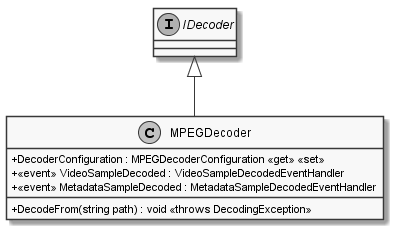
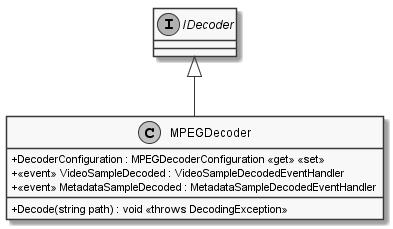
Add MetadataCapture, MetadataSerializer, fix some declarations

Changed region(s): [[0.1221, 0.8865, 0.7939, 0.9476]]

diff --git a/documents/sd/chapter/Classes/Core/MORR/Data/Capture/Capture.tex b/documents/sd/chapter/Classes/Core/MORR/Data/Capture/Capture.tex
@@ -48,7 +48,7 @@
     \end{attributes}
 
     \begin{methods}
-        \begin{method}{VideoSample NextSample()}{Gets the next VideoSample from the capture.}
+        \begin{method}{public VideoSample NextSample()}{Gets the next VideoSample from the capture.}
             \return{VideoSample}{The next VideoSample from the capture.}
         \end{method}
     \end{methods}   
@@ -84,7 +84,7 @@
     \clsdsp{Provides utility methods for working with Windows' GraphicsCaptureItems.}
 
     \begin{attributes}
-        \attribute{static bool CanCreateItemWithoutPicker \{ get; \}}{Indicates whether the creation of a GraphicsCaptureItem instance requires user interaction. True if GraphicsCaptureItems can be created without user interaction, false otherwise.}
+        \attribute{public static bool CanCreateItemWithoutPicker \{ get; \}}{Indicates whether the creation of a GraphicsCaptureItem instance requires user interaction. True if GraphicsCaptureItems can be created without user interaction, false otherwise.}
     \end{attributes}
     \begin{methods}
         \begin{method}{public static GraphicsCaptureItem CreateItemForMonitor(IntPtr hMon)}{Creates a GraphicsCaptureItem for the specified monitor.}
@@ -176,3 +176,21 @@
         \end{method}
     \end{methods}
 \end{interface}
+
+\begin{class}{MetadataCapture}
+    \clsdiagram[width=0.5\textwidth]{resources/Classes/Core/MORR/Capture/MetadataCapture.png}
+
+    \clsdcl{public class MetadataCapture : IMetadataCapture}
+
+    \clsdsp{Captures all events from all event queues and provides them on a per-sample basis.}
+
+    \begin{attributes}
+        \attribute{[ImportMany] IEnumerable<EventQueue<Event>> \{ get; private set; \}}{All available event queues.}
+    \end{attributes}
+
+    \begin{methods}
+        \begin{method}{public MetadataSample NextSample()}{Gets the next MetadataSample from the capture.}
+            \return{MetadataSample}{The next MetadataSample from the capture.}
+        \end{method}
+    \end{methods}
+\end{class}

diff --git a/documents/sd/chapter/Classes/Core/MORR/MORR.tex b/documents/sd/chapter/Classes/Core/MORR/MORR.tex
@@ -32,7 +32,7 @@
 \end{interface}
 
 \begin{class}{RecordingManager}
-    \clsdiagram[width=0.35\textwidth]{resources/Classes/Core/MORR/RecordingManager.png}
+    \clsdiagram[width=0.5\textwidth]{resources/Classes/Core/MORR/RecordingManager.png}
 
     \clsdcl{public class RecordingManager : IRecordingManager}
 
@@ -101,7 +101,7 @@
     \clsdsp{Responsible for bootstrapping the application and providing compositional facilities using MEF.}
 
     \begin{methods}
-        \begin{method}{public void ComposeImports(object @object)}{Satisifies the imports on the specified object using MEF.}
+        \begin{method}{void ComposeImports(object @object)}{Satisifies the imports on the specified object using MEF.}
         \begin{parameters}
             \para{object @object}{The object to satisfy the imports on.}
         \end{parameters}
@@ -139,7 +139,7 @@
     \end{attributes}
 
     \begin{methods}
-        \begin{method}{public void LoadConfiguration(string path)}{Loads the configuration in .json format from the specified part and initializes all IConfiguration instances.}
+        \begin{method}{void LoadConfiguration(string path)}{Loads the configuration in .json format from the specified part and initializes all IConfiguration instances.}
             \begin{parameters}
                 \para{string path}{The path to load the configuration from.}
             \end{parameters}
@@ -199,7 +199,7 @@
     \end{attributes}
 
     \begin{methods}
-        \begin{method}{public void InitializeModules()}{Initializes all modules according to the configuration}      
+        \begin{method}{void InitializeModules()}{Initializes all modules according to the configuration}      
         \end{method}
     \end{methods}
 \end{interface}

diff --git a/documents/sd/chapter/Classes/Core/UI/UI.tex b/documents/sd/chapter/Classes/Core/UI/UI.tex
@@ -31,7 +31,7 @@
     \end{constructors}
     
     \begin{methods}
-    	\begin{method}{public void dispose()}{Frees all unmanaged resources}
+    	\begin{method}{public void Dispose()}{Frees all unmanaged resources}
         \end{method}
      \end{methods}
 
@@ -132,12 +132,12 @@
     	\begin{method}{public bool CanExecute(object parameter)}{Determines whether the RelayCommand can be executed in current state}
             \return{bool}{True if this RelayCommand can be executed; otherwise, false.}
             \begin{parameters}
-                \para{Object parameter}{Data used by the RelayCommand}
+                \para{object parameter}{Data used by the RelayCommand}
             \end{parameters}
         \end{method}
         \begin{method}{public void Execute(object parameter)}{Executes the RelayCommand}
             \begin{parameters}
-               \para{Object parameter}{Data used by the RelayCommand}
+               \para{object parameter}{Data used by the RelayCommand}
             \end{parameters}
         \end{method}
         

diff --git a/documents/sd/chapter/Classes/Core/MORR/Data/Transcoding/WinAPI/WinAPI_Transcoding.tex b/documents/sd/chapter/Classes/Core/MORR/Data/Transcoding/WinAPI/WinAPI_Transcoding.tex
@@ -59,7 +59,7 @@
     \end{attributes}
 
     \begin{methods}
-        \begin{method}{public void DecodeFrom(string path)}{Decodes samples contained in a file at a specified location.}
+        \begin{method}{public void Decode(string path)}{Decodes samples contained in a file at a specified location.}
             \begin{parameters}
                 \para{string path}{The path to decode from.}
             \end{parameters}
@@ -78,7 +78,7 @@
     \clsdsp{Encapsulates all MPEGDecoder configuration options.}
 
     \begin{attributes}
-        \attribute{bool ShouldExtractVideo \{ get; set; \}}{Indicates whether the encoder should extract video in addition to metadata. True if the encoder should extract video, false otherwise.}
+        \attribute{public bool ShouldExtractVideo \{ get; set; \}}{Indicates whether the encoder should extract video in addition to metadata. True if the encoder should extract video, false otherwise.}
     \end{attributes}
 
     \begin{methods}

diff --git a/documents/sd/chapter/Classes/Core/MORR/Data/Transcoding/Metadata/MetadataTranscoding.tex b/documents/sd/chapter/Classes/Core/MORR/Data/Transcoding/Metadata/MetadataTranscoding.tex
@@ -40,6 +40,8 @@
     \clsdsp{An exception thrown if metadata decoding fails.}
 \end{class}
 
+\subsection*{MORR.Core.Data.Transcoding.Metadata}
+
 \begin{interface}{IMetadataDeserializer}
     \clsdiagram[width=0.3\textwidth]{resources/Classes/Core/MORR/Transcoding/Metadata/IMetadataDeserializer.png}
 
@@ -47,3 +49,15 @@
 
     \clsdsp{Provides deserialization from generic events from a decoder to type-specific events.}
 \end{interface}
+
+\begin{class}{MetadataDeserializer}
+    \clsdiagram[width=0.5\textwidth]{resources/Classes/Core/MORR/Transcoding/Metadata/MetadataDeserializer.png}
+
+    \clsdcl{public class MetadataDeserializer : IMetadataDeserializer}
+
+    \clsdsp{Provides deserialization from generic events from a decoder to type-specific events.}
+
+    \begin{attributes}
+        \attribute{[ImportMany] public IEnumerable<EventQueue<Event>> EventQueues \{ get; private set\}}{All available event queues.}
+    \end{attributes}
+\end{class}

diff --git a/documents/sd/chapter/Classes/Common/Events/Events.tex b/documents/sd/chapter/Classes/Common/Events/Events.tex
@@ -71,10 +71,10 @@
     \clsdsp{Provides the backing store of an EventQueue with a specific storage strategy.}
 
     \begin{methods}
-        \begin{method}{public IAsyncEnumerable<T> GetEventsInternal()}{Asynchronously gets all events as concrete type T from this storage strategy.}
+        \begin{method}{IAsyncEnumerable<T> GetEventsInternal()}{Asynchronously gets all events as concrete type T from this storage strategy.}
             \return{IAsyncEnumerable<T>}{A stream of events of type T.}
         \end{method}
-        \begin{method}{public void Enqueue(T @event)}{Asynchronously enqueues a new event of type T with this storage strategy.}
+        \begin{method}{void Enqueue(T @event)}{Asynchronously enqueues a new event of type T with this storage strategy.}
             \begin{parameters}
                 \para{T @event}{The event to enqueue.}
             \end{parameters}

diff --git a/documents/sd/chapter/Classes/Core/MORR/Data/Transcoding/Transcoding.tex b/documents/sd/chapter/Classes/Core/MORR/Data/Transcoding/Transcoding.tex
@@ -16,7 +16,7 @@
     \end{attributes}
 
     \begin{methods}
-        \begin{method}{void EncodeTo(string path)}{Encodes all provided samples to a file at the specified location.}
+        \begin{method}{void Encode(string path)}{Encodes all provided samples to a file at the specified location.}
             \begin{parameters}
                 \para{string path}{The path to encode to.}
             \end{parameters}
@@ -40,7 +40,7 @@
     \end{attributes}
 
     \begin{methods}
-        \begin{method}{void DecodeFrom(string path)}{Decodes samples contained in a file at a specified location.}
+        \begin{method}{void Decode(string path)}{Decodes samples contained in a file at a specified location.}
             \begin{parameters}
                 \para{string path}{The path to decode from.}
             \end{parameters}
